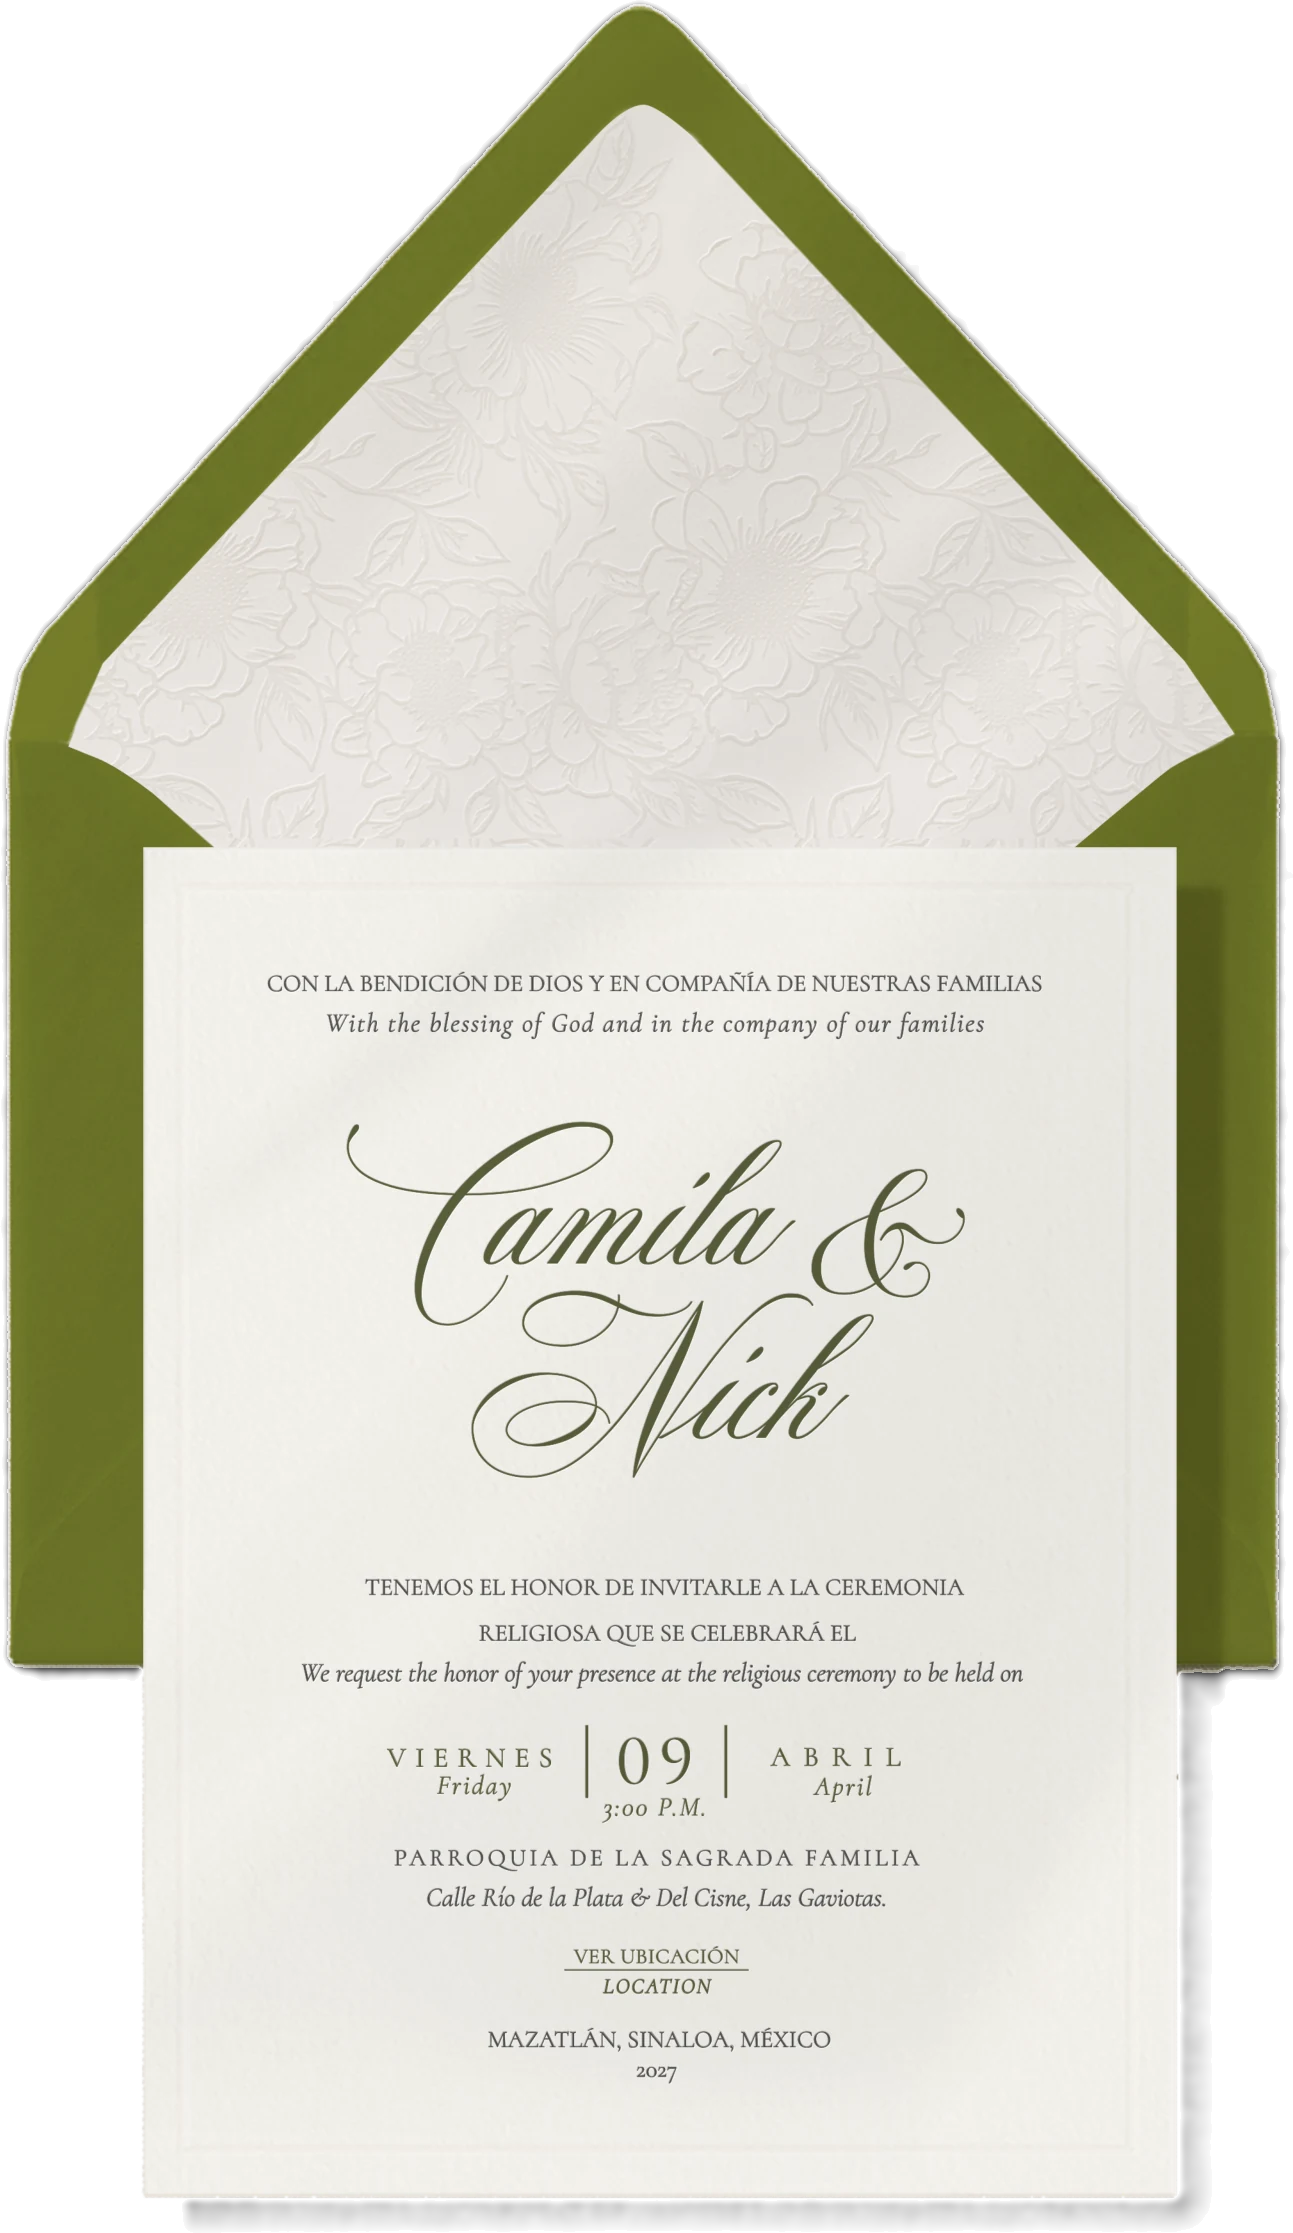
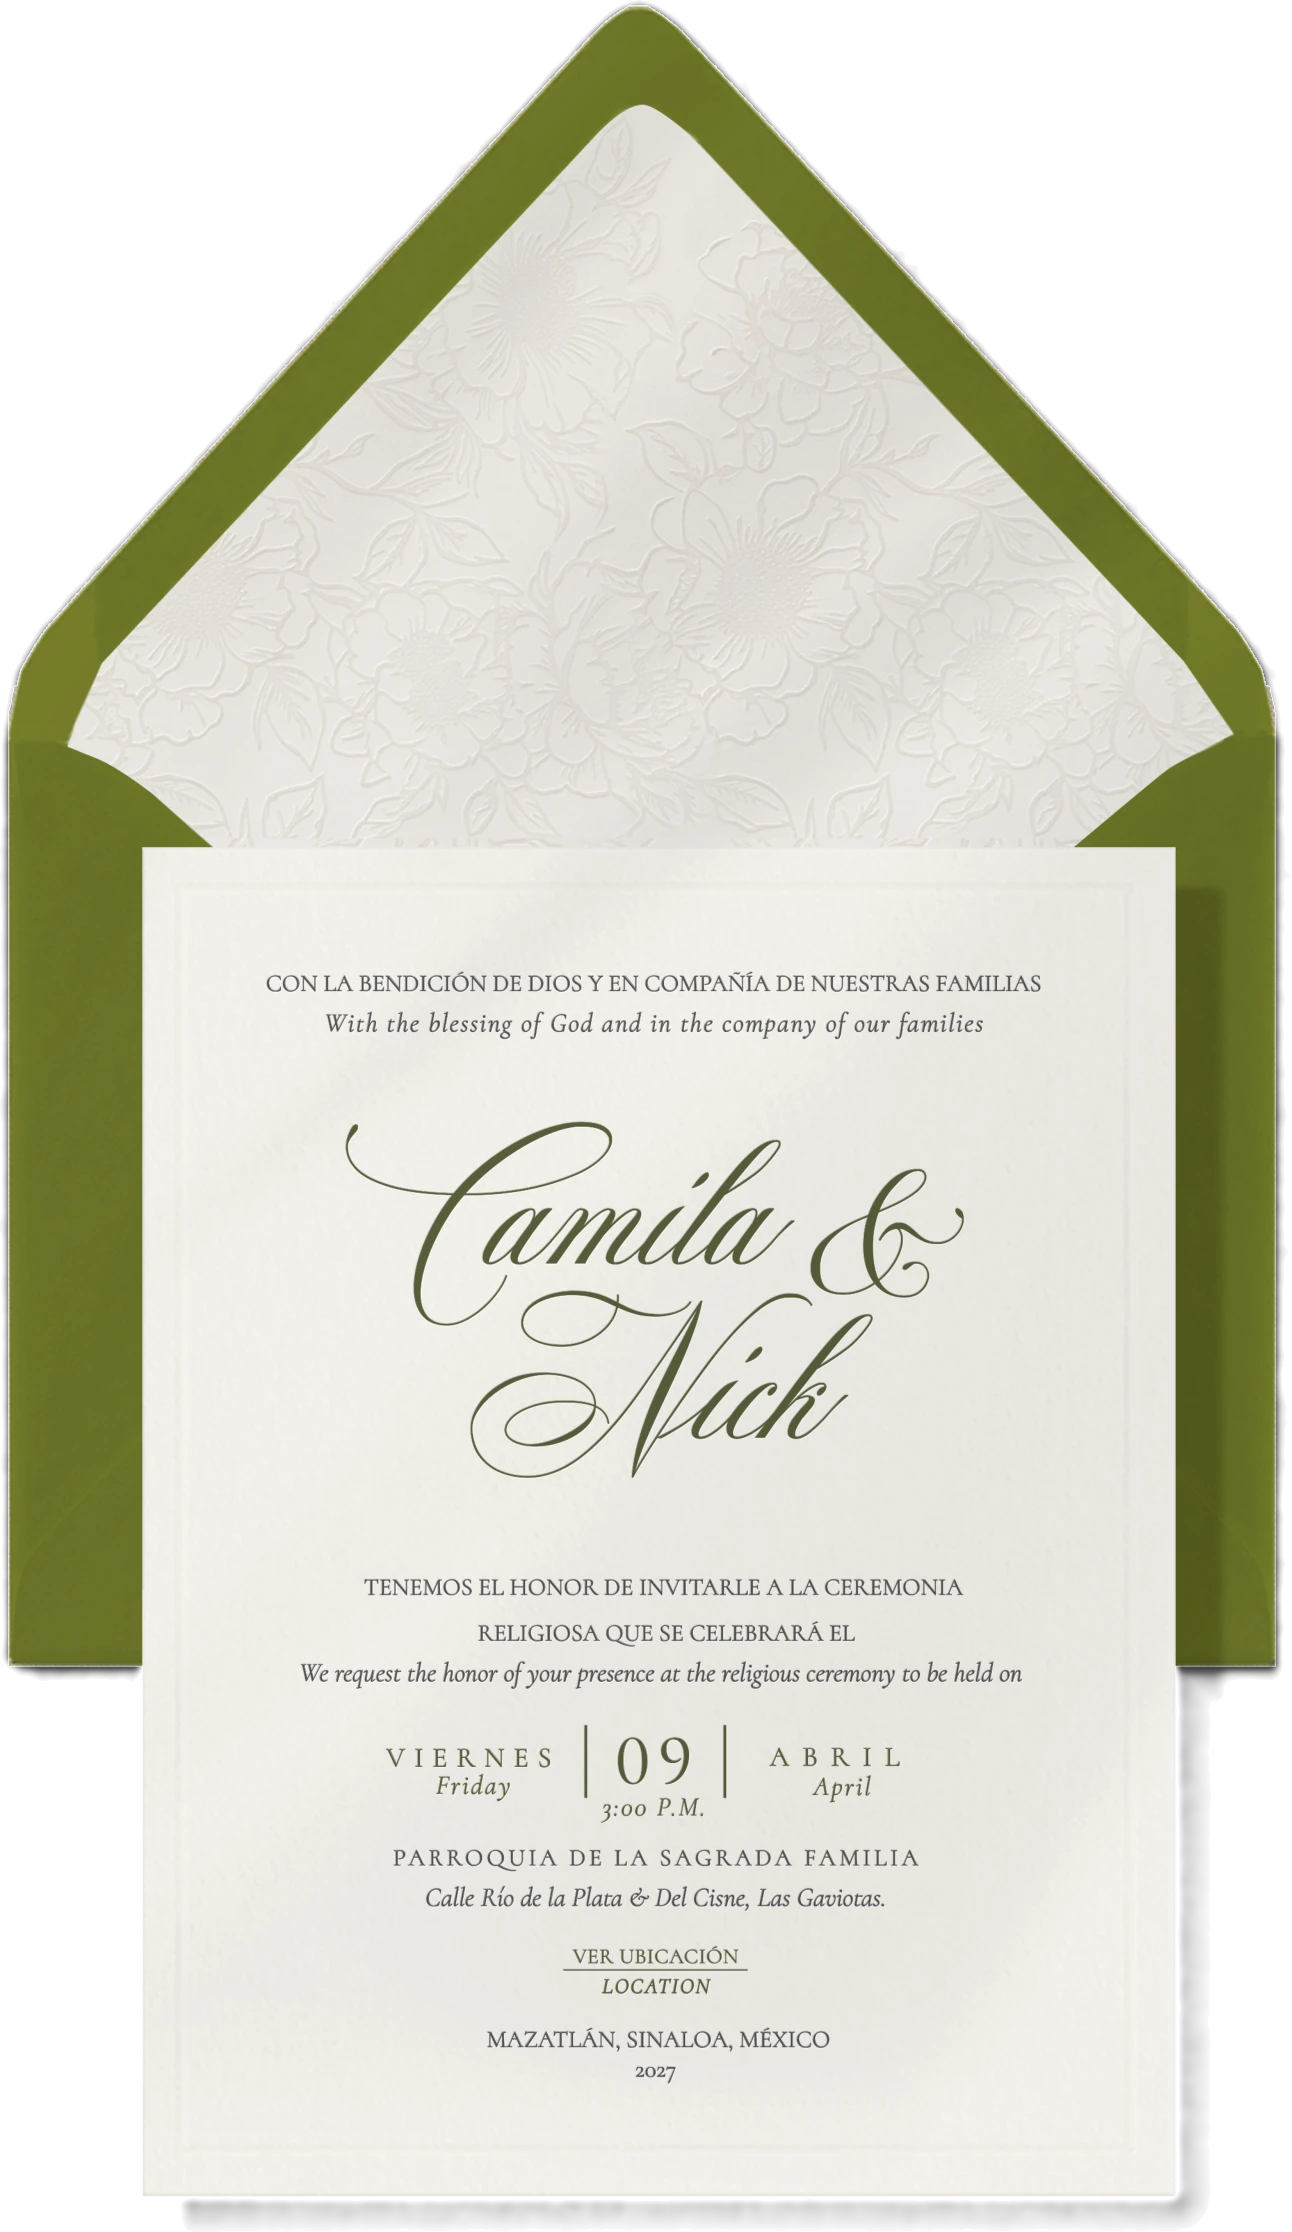
Straight, outline-free edges on every card and envelope
- Cards and envelopes cut as measured rectangles; RSVP traced as a smooth oval; liner flap as a clean point
- Flowers, ribbon and tassel keep their fine detail; only soft shadows around everything

Claude-Session: https://claude.ai/code/session_01VUW2DL1pxHZW5YBbu8ue5b

diff --git a/index.html b/index.html
@@ -20,7 +20,7 @@
 :root{color-scheme:light;--olive:#69722c;--olive-d:#565d27;--ink:#3c3d33;--soft:#5e5f52;--gold:#b8955a;--ivory:#fbf9f4;--line:#e3ddcf}
 *{box-sizing:border-box;min-width:0}
 html{scroll-behavior:smooth}
-body{margin:0;color:var(--ink);font:18px/1.55 "Cormorant Garamond",Georgia,serif;overflow-x:clip;background:#b7ac9d url(img/linen.jpg?v=11);background-size:360px}
+body{margin:0;color:var(--ink);font:18px/1.55 "Cormorant Garamond",Georgia,serif;overflow-x:clip;background:#b7ac9d url(img/linen.jpg?v=12);background-size:360px}
 body.locked{overflow:hidden;height:100vh}
 img{display:block;max-width:100%}
 button{font:inherit}
@@ -30,10 +30,10 @@ button{font:inherit}
 a{color:inherit}
 a[x-apple-data-detectors]{color:inherit!important;text-decoration:none!important;font:inherit!important}
 :focus-visible{outline:2px solid var(--gold);outline-offset:4px}
-.olivefill-unused{background:#93a246 url(img/linen.jpg?v=11);background-blend-mode:multiply;background-size:300px}
+.olivefill-unused{background:#93a246 url(img/linen.jpg?v=12);background-blend-mode:multiply;background-size:300px}
 
 /* ── cover ── */
-#cover{position:fixed;inset:0;z-index:40;display:grid;place-items:center;background:#b7ac9d url(img/linen.jpg?v=11);background-size:360px;transition:opacity 1s cubic-bezier(.4,0,.2,1)}
+#cover{position:fixed;inset:0;z-index:40;display:grid;place-items:center;background:#b7ac9d url(img/linen.jpg?v=12);background-size:360px;transition:opacity 1s cubic-bezier(.4,0,.2,1)}
 #cover.out{opacity:0;pointer-events:none}
 .cv{display:grid;justify-items:center;text-align:center;padding:24px;gap:4px}
 .cv .cvnames{font-size:clamp(46px,10vw,74px);margin:4px 0 30px}
@@ -51,11 +51,11 @@ a[x-apple-data-detectors]{color:inherit!important;text-decoration:none!important
 .e-card .nm{font:500 clamp(18px,4.2vw,26px)/1.05 "Cormorant Garamond",serif;letter-spacing:.08em;color:var(--olive-d)!important}
 .e-card .dt{font-size:12px;letter-spacing:.22em;color:var(--ink)!important;margin-top:4px}
 .e-card span{text-decoration:none!important}
-.e-pocket{z-index:2;inset:0;border-radius:4px;background:url(img/env-real.jpg?v=11) top/100% 100% no-repeat;clip-path:polygon(0 9.95%,49.4% 78.6%,100% 9.95%,100% 100%,0 100%)}
+.e-pocket{z-index:2;inset:0;border-radius:4px;background:url(img/env-real.jpg?v=12) top/100% 100% no-repeat;clip-path:polygon(0 9.95%,49.4% 78.6%,100% 9.95%,100% 100%,0 100%)}
 .e-flap{z-index:3;left:0;top:0;width:100%;height:78.6%;transform-origin:50% 0;transform-style:preserve-3d;transform:rotateX(0deg);transition:transform 1s cubic-bezier(.65,0,.35,1) .25s,z-index 0s .75s;will-change:transform}
 .f-front,.f-back{position:absolute;inset:0;-webkit-backface-visibility:hidden;backface-visibility:hidden}
-.f-front{background:url(img/env-real.jpg?v=11) top/100% 127.2% no-repeat;clip-path:polygon(-1% 0,101% 0,101% 12.7%,49.4% 101.5%,-1% 12.7%)}
-.f-back{background:url(img/env-liner-hd.webp?v=11) center/100% 100% no-repeat;transform:rotateX(180deg)}
+.f-front{background:url(img/env-real.jpg?v=12) top/100% 127.2% no-repeat;clip-path:polygon(-1% 0,101% 0,101% 12.7%,49.4% 101.5%,-1% 12.7%)}
+.f-back{background:url(img/env-liner-hd.webp?v=12) center/100% 100% no-repeat;transform:rotateX(180deg)}
 .e-seal{z-index:4;left:50.4%;top:70.8%;width:15.2%;transform:translate3d(-50%,-50%,0);filter:drop-shadow(0 4px 5px rgba(0,0,0,.35));will-change:transform,opacity}
 .env:not(.open) .e-seal{animation:breathe 2.8s cubic-bezier(.45,0,.55,1) infinite}
 .env.open .e-seal{animation:sealOff .75s cubic-bezier(.4,0,.2,1) forwards}
@@ -103,7 +103,7 @@ body.opened .reenv{opacity:1;pointer-events:auto}
    <div class="e-card"><div class="mono"><b>C</b><i>N</i></div><span class="script">Save the date</span><span class="nm">CAMILA<br>&amp; NICK</span><span class="caps dt"><span>09</span> · <span>04</span> · <span>2027</span></span></div>
    <div class="e-pocket"></div>
    <div class="e-flap"><div class="f-front"></div><div class="f-back"></div></div>
-   <img class="e-seal" src="img/seal-pdf.webp?v=11" alt="">
+   <img class="e-seal" src="img/seal-pdf.webp?v=12" alt="">
   </button>
   <div class="tap caps">Toca para abrir · Tap to see inside</div>
  </div>
@@ -119,12 +119,12 @@ body.opened .reenv{opacity:1;pointer-events:auto}
 <script>
 {
 // One entry per invitation version (Invitados 1, 2, …). Link a guest with ?invitados=2
-const INV={"2": {"w": 1440, "h": 10297, "links": [{"x": 37.714, "y": 43.667, "w": 33.471, "h": 2.107, "uri": "https://maps.app.goo.gl/gSUrrUd9CPuR6mM3A", "label": "Ver ubicaci\u00f3n de la ceremonia \u00b7 Ceremony location"}, {"x": 11.194, "y": 79.533, "w": 28.391, "h": 2.865, "uri": "https://www.camilaandnick.com/registry", "label": "Sugerencia de regalo \u00b7 Gift suggestion"}, {"x": 13.845, "y": 70.021, "w": 37.487, "h": 4.215, "uri": "https://www.camilaandnick.com/", "label": "Ver p\u00e1gina \u00b7 Visit website"}, {"x": 16.118, "y": 89.382, "w": 29.115, "h": 5.616, "uri": "https://www.camilaandnick.com/rsvp", "label": "Confirma aqu\u00ed \u00b7 R.S.V.P. here"}, {"x": 61.064, "y": 68.073, "w": 23.777, "h": 1.975, "uri": "https://maps.app.goo.gl/jxMHLZ9EfkpKpbPw7", "label": "Ver ubicaci\u00f3n de la recepci\u00f3n \u00b7 Reception location"}], "pieces": [{"n": "p1", "x": 3.3333, "y": 2.4279, "w": 93.0556, "h": 22.0938}, {"n": "p2", "x": 5.4861, "y": 25.7162, "w": 89.7917, "h": 21.6859}, {"n": "p3", "x": 3.9583, "y": 49.0725, "w": 94.6528, "h": 28.0956}, {"n": "p4", "x": 3.4028, "y": 75.5948, "w": 44.1667, "h": 7.5265}, {"n": "p5", "x": 6.5972, "y": 73.8079, "w": 90.8333, "h": 22.5308}]}};
+const INV={"2": {"w": 1440, "h": 10297, "links": [{"x": 37.714, "y": 43.667, "w": 33.471, "h": 2.107, "uri": "https://maps.app.goo.gl/gSUrrUd9CPuR6mM3A", "label": "Ver ubicaci\u00f3n de la ceremonia \u00b7 Ceremony location"}, {"x": 11.194, "y": 79.533, "w": 28.391, "h": 2.865, "uri": "https://www.camilaandnick.com/registry", "label": "Sugerencia de regalo \u00b7 Gift suggestion"}, {"x": 13.845, "y": 70.021, "w": 37.487, "h": 4.215, "uri": "https://www.camilaandnick.com/", "label": "Ver p\u00e1gina \u00b7 Visit website"}, {"x": 16.118, "y": 89.382, "w": 29.115, "h": 5.616, "uri": "https://www.camilaandnick.com/rsvp", "label": "Confirma aqu\u00ed \u00b7 R.S.V.P. here"}, {"x": 61.064, "y": 68.073, "w": 23.777, "h": 1.975, "uri": "https://maps.app.goo.gl/jxMHLZ9EfkpKpbPw7", "label": "Ver ubicaci\u00f3n de la recepci\u00f3n \u00b7 Reception location"}], "pieces": [{"n": "p1", "x": 3.3333, "y": 2.4376, "w": 93.0556, "h": 22.0841}, {"n": "p2", "x": 5.5556, "y": 25.7162, "w": 89.7222, "h": 21.6762}, {"n": "p3", "x": 3.9583, "y": 49.0725, "w": 94.5833, "h": 28.0956}, {"n": "p4", "x": 3.5417, "y": 75.6143, "w": 44.0278, "h": 7.4973}, {"n": "p5", "x": 6.5972, "y": 73.8079, "w": 90.8333, "h": 22.5308}]}};
 const want=new URLSearchParams(location.search).get('invitados');
 const key=INV[want]?want:Object.keys(INV)[0], v=INV[key];
 const pdf=document.getElementById('pdf');
 pdf.style.aspectRatio=v.w+'/'+v.h;
-const pieces=v.pieces.map((pc,i)=>{const im=document.createElement('img');im.src='img/inv/inv'+key+'-'+pc.n+'.webp?v=11';im.alt=i?'':'Invitación de Camila y Nick';im.decoding='async';
+const pieces=v.pieces.map((pc,i)=>{const im=document.createElement('img');im.src='img/inv/inv'+key+'-'+pc.n+'.webp?v=12';im.alt=i?'':'Invitación de Camila y Nick';im.decoding='async';
  im.style.cssText='left:'+pc.x+'%;top:'+pc.y+'%;width:'+pc.w+'%';pdf.appendChild(im);return im});
 v.links.forEach(l=>{const a=document.createElement('a');a.className='hot';a.href=l.uri;a.setAttribute('aria-label',l.label);
  a.style.cssText='left:'+l.x+'%;top:'+l.y+'%;width:'+l.w+'%;height:'+l.h+'%';pdf.appendChild(a)});
